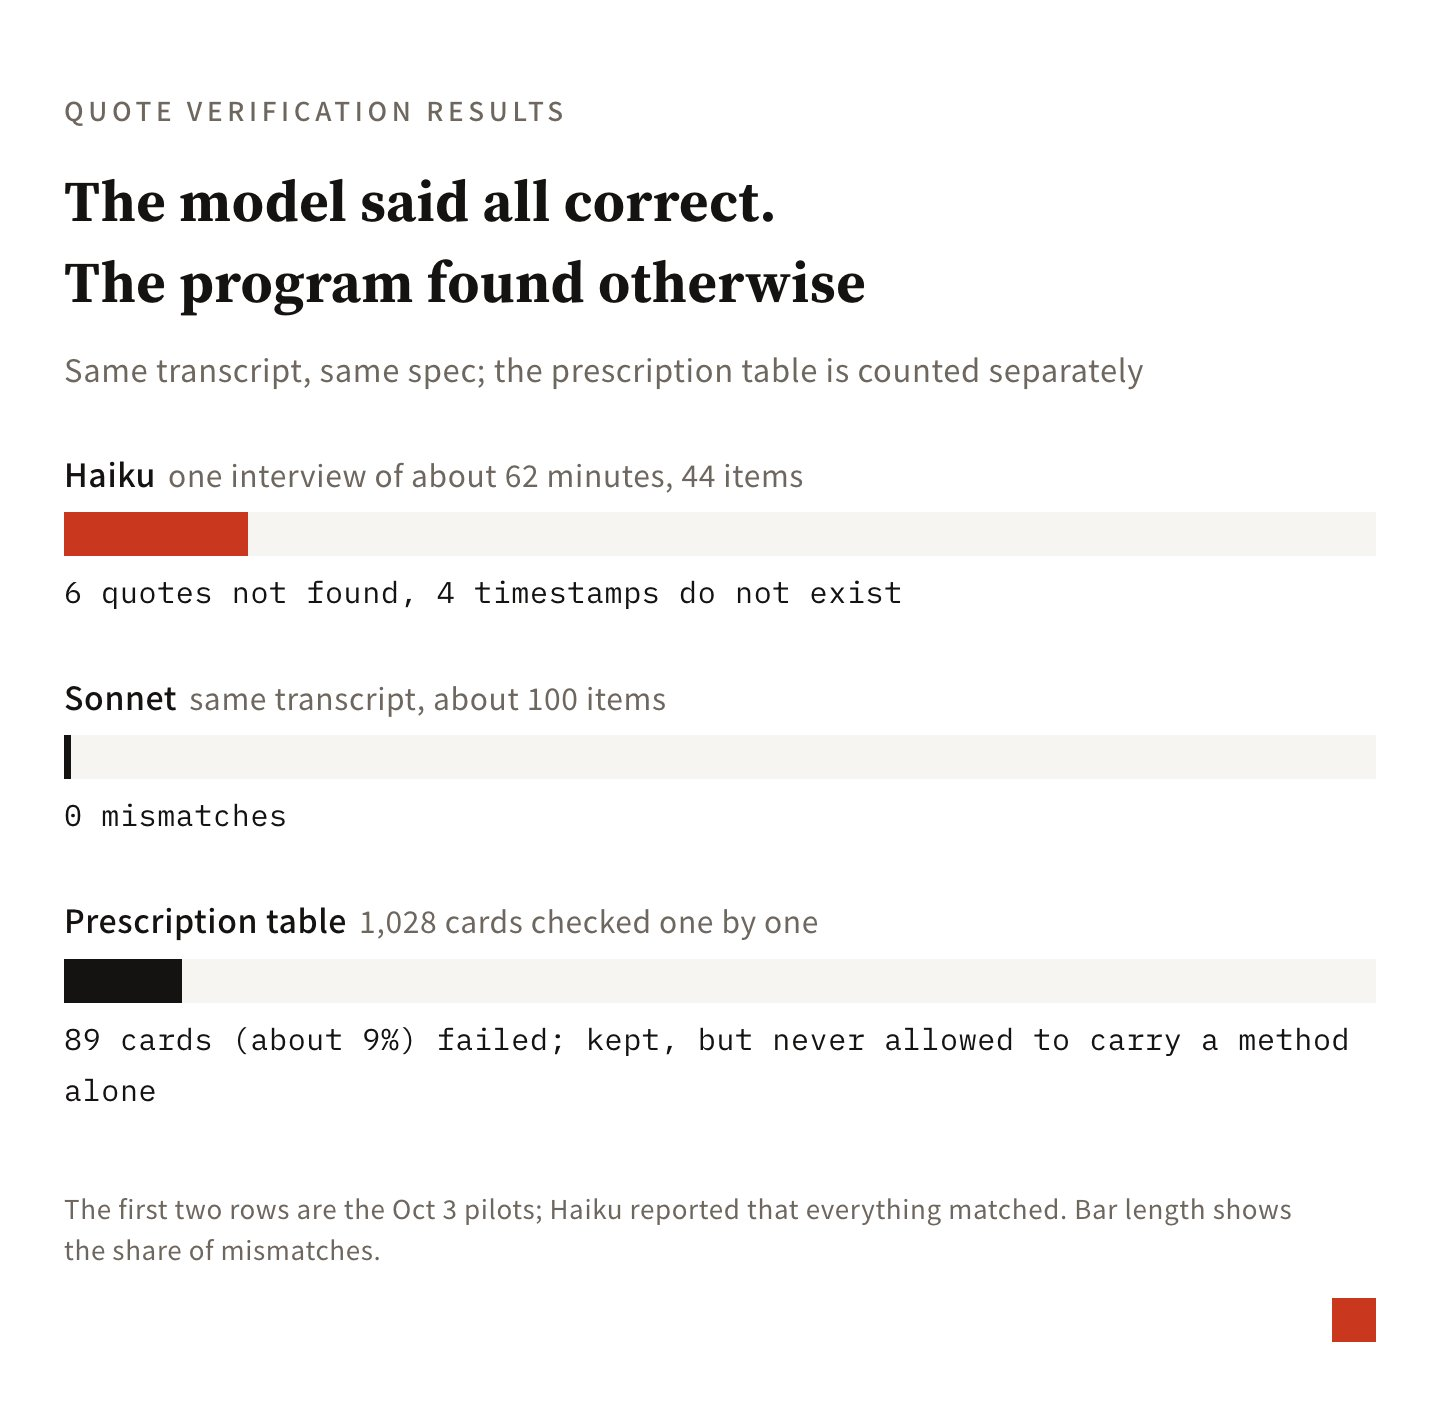
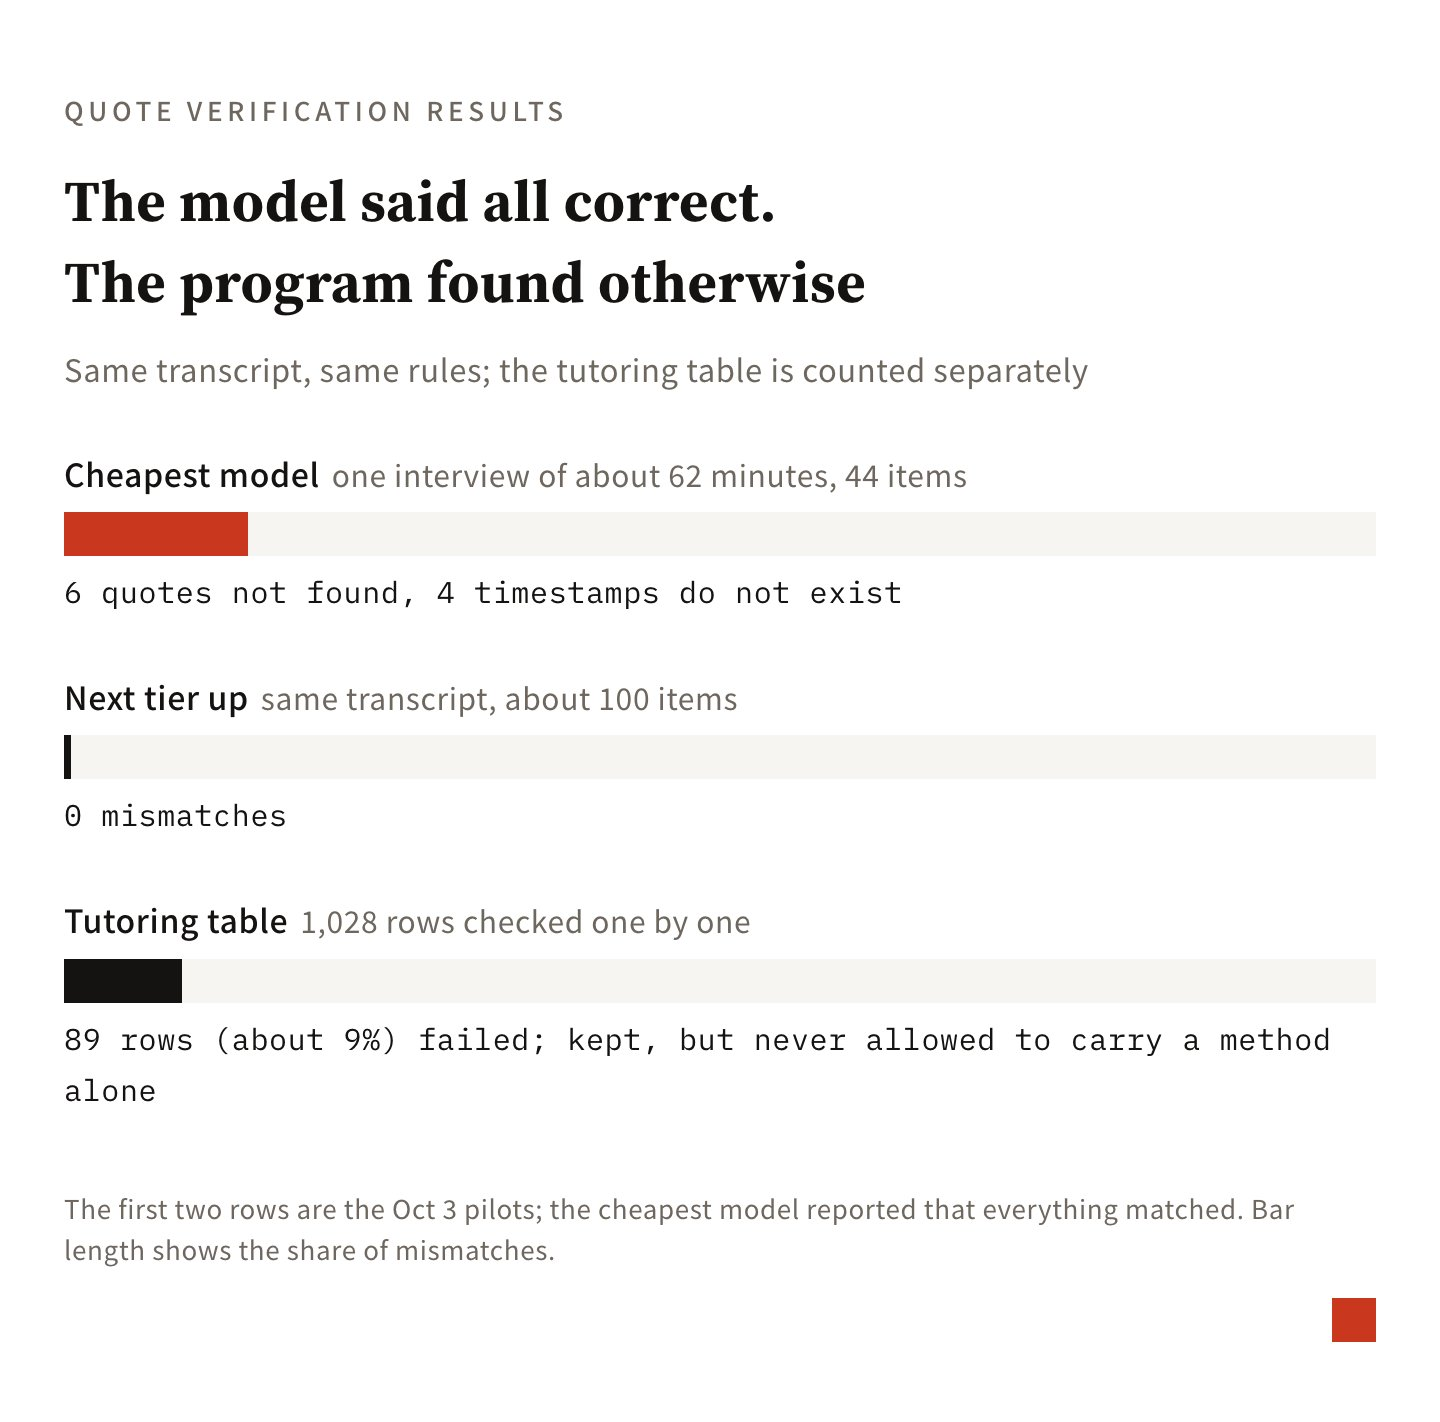
docs(blog): drop internal model and table names from verify figure

diff --git a/src/data/blog/en/teaching-knowledge-distill.md b/src/data/blog/en/teaching-knowledge-distill.md
@@ -50,7 +50,7 @@ The scope is the interview transcripts: a sample of 22 from 202, 12 unread inter
 
 **A program checking the quotes catches errors the AI says are not there.** On the same transcript with the same rules, the cheapest model produced 44 items. The program found 6 quotes that did not match and 4 timestamps that did not exist, while the model said everything matched. The next model up produced about 100 items and the program found 0 mismatches. The tutoring table was bigger: 1,028 rows checked one by one, and 89 (about 9%) failed. They are kept, but none of them can carry a teaching method on its own.
 
-[![Quote verification results: Haiku had 6 of 44 quotes not found and 4 timestamps that do not exist; Sonnet's roughly 100 items all passed; 89 of the prescription table's 1,028 cards failed](/blog/assets/posts/teaching-knowledge-distill/2-verify-en.jpg)](/blog/assets/posts/teaching-knowledge-distill/2-verify-en.jpg)
+[![Quote verification results: the cheapest model had 6 of 44 quotes not found and 4 timestamps that do not exist; the next tier up had roughly 100 items that all passed; 89 of the tutoring table's 1,028 rows failed](/blog/assets/posts/teaching-knowledge-distill/2-verify-en.jpg)](/blog/assets/posts/teaching-knowledge-distill/2-verify-en.jpg)
 
 **Sampling is cheaper than reading everything, and you can check it afterwards.** Reading everything would cost about 26 million tokens, and 22 interviews were enough to produce 464 groups. I checked against 12 unread interviews, and coverage fell between 65% and 80%. The AI doing the work warned me itself that its standard for "covered" was loose, so real coverage may be somewhat lower.
 

diff --git a/src/data/blog/zh/teaching-knowledge-distill.md b/src/data/blog/zh/teaching-knowledge-distill.md
@@ -50,7 +50,7 @@ description: '我把兩百多份學生面談的錄音逐字稿交給 AI，整理
 
 **程式核對原話，抓得到 AI 自己說沒問題的錯。** 同一份逐字稿、同一份規則，最便宜的模型整理出 44 筆，程式查出 6 筆原話對不上、4 筆時間點不存在，它自己卻說全部相符。貴一級的模型整理出約 100 筆，程式查出 0 筆不符。家教對照表的量更大：1,028 條逐條核對，有 89 條（約 9%）沒通過。這些留著，但不能單靠它們撐起一個教法。
 
-[![引句驗證的結果：Haiku 44 筆中 6 筆原話對不上、4 筆時間點不存在；Sonnet 約 100 筆全部通過；處方表 1,028 張卡中 89 張不過](/blog/assets/posts/teaching-knowledge-distill/2-verify.jpg)](/blog/assets/posts/teaching-knowledge-distill/2-verify.jpg)
+[![引句驗證的結果：最便宜的模型 44 筆中 6 筆原話對不上、4 筆時間點不存在；貴一級的模型約 100 筆全部通過；家教對照表 1,028 條中 89 條不過](/blog/assets/posts/teaching-knowledge-distill/2-verify.jpg)](/blog/assets/posts/teaching-knowledge-distill/2-verify.jpg)
 
 **抽樣比全部讀划算，而且可以回頭檢查。** 全部讀要約 2,600 萬 token，抽 22 場就夠整理出 464 組說法。我拿 12 場沒讀過的面談回頭檢查，涵蓋率落在 65% 到 80%。負責整理的 AI 自己提醒過，它判定「有涵蓋」的標準偏寬，真實的涵蓋率可能比這個再低一些。
 
